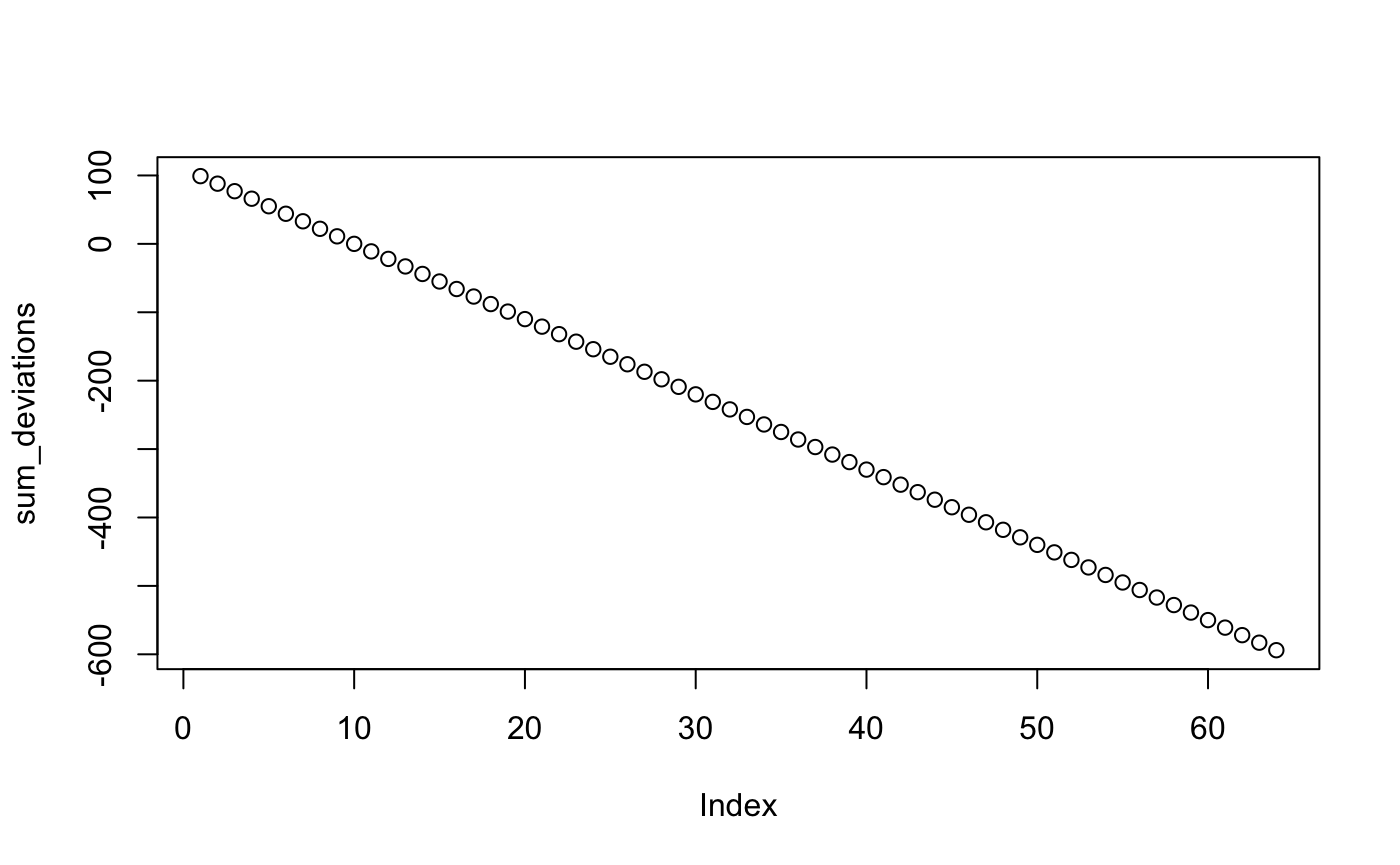
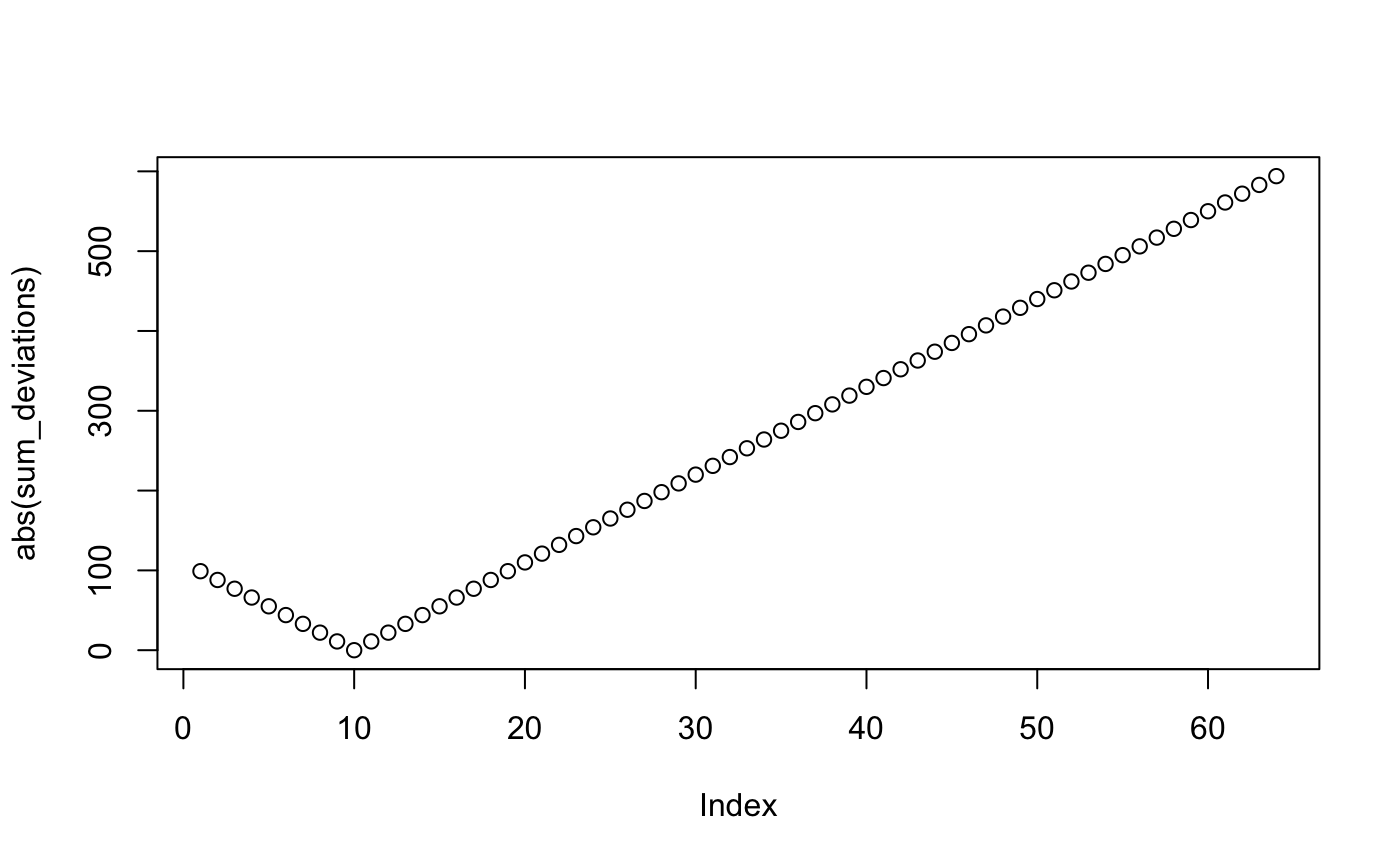
add to docs

diff --git a/docs/articles/Lab2_Descriptives.html b/docs/articles/Lab2_Descriptives.html
@@ -193,10 +193,9 @@
 <span class="fu"><a href="https://ggplot2.tidyverse.org/reference/ggplot.html">ggplot</a></span>(<span class="no">means_df</span>, <span class="fu"><a href="https://ggplot2.tidyverse.org/reference/aes.html">aes</a></span>(<span class="kw">x</span><span class="kw">=</span><span class="no">feed</span>, <span class="kw">y</span><span class="kw">=</span><span class="no">means</span>)) +
   <span class="fu"><a href="https://ggplot2.tidyverse.org/reference/geom_bar.html">geom_bar</a></span>(<span class="kw">stat</span><span class="kw">=</span><span class="st">"identity"</span>)</pre></body></html></div>
 <p><img src="Lab2_Descriptives_files/figure-html/unnamed-chunk-3-1.png" width="700"></p>
-</div>
-<div id="base-r-descriptive-statistics-functions" class="section level2">
-<h2 class="hasAnchor">
-<a href="#base-r-descriptive-statistics-functions" class="anchor"></a>Base R descriptive statistics functions</h2>
+<div id="base-r-descriptive-statistics-functions" class="section level3">
+<h3 class="hasAnchor">
+<a href="#base-r-descriptive-statistics-functions" class="anchor"></a>Base R descriptive statistics functions</h3>
 <p>Base R comes with functions for many common descriptive statistics. In general, these functions take a vector of number as an input, and return the statistic as an output. Here are some examples computing statistics on the sequence of integers from 1 to 10.</p>
 <div class="sourceCode" id="cb4"><html><body><pre class="r"><span class="no">a</span> <span class="kw">&lt;-</span> <span class="fl">1</span>:<span class="fl">10</span>
 
@@ -209,44 +208,43 @@
 <span class="fu"><a href="https://rdrr.io/r/stats/cor.html">var</a></span>(<span class="no">a</span>) <span class="co"># sample variance (n-1)</span>
 <span class="co">#&gt; [1] 9.166667</span></pre></body></html></div>
 <p>At the same time, base R does not have existing functions for every descriptive statistic, or custom descriptive statistics that you might want to make yourself. For example, there is no mode function. You would have to find another package with a mode function, or write your own.</p>
-<p>In the following sections we will learn how to write our own functions for descriptive statistics, and we will use R to demonstrate concepts about these statistics. Descriptive statistics are typically applied to data, however to keep things simple we will be applying them to short sets of numbers that we define. This will help us check our work.</p>
-<p>As we will see in later labs, it is possible to generate or sample numbers from distributions in R. So, along with real data, we will often use simulated data. Here is a quick example of generating numbers from a normal distribution, plotting them, and calculating some descriptives.</p>
-<div class="sourceCode" id="cb5"><html><body><pre class="r"><span class="co"># sample 50 numbers from normal distribution</span>
-<span class="no">sample_numbers</span> <span class="kw">&lt;-</span> <span class="fu"><a href="https://rdrr.io/r/stats/Normal.html">rnorm</a></span>(<span class="kw">n</span><span class="kw">=</span> <span class="fl">50</span>, <span class="kw">mean</span> <span class="kw">=</span> <span class="fl">0</span>, <span class="kw">sd</span> <span class="kw">=</span> <span class="fl">1</span>)
-
-<span class="co">#show a histogram of the sample</span>
-<span class="fu"><a href="https://rdrr.io/r/graphics/hist.html">hist</a></span>(<span class="no">sample_numbers</span>)</pre></body></html></div>
-<p><img src="Lab2_Descriptives_files/figure-html/unnamed-chunk-5-1.png" width="700"></p>
-<div class="sourceCode" id="cb6"><html><body><pre class="r">
-<span class="fu"><a href="https://rdrr.io/r/base/mean.html">mean</a></span>(<span class="no">sample_numbers</span>)
-<span class="co">#&gt; [1] 0.04071421</span>
-<span class="fu"><a href="https://rdrr.io/r/stats/sd.html">sd</a></span>(<span class="no">sample_numbers</span>)
-<span class="co">#&gt; [1] 0.8596191</span></pre></body></html></div>
 </div>
-<div id="central-tendency" class="section level2">
+</div>
+<div id="concepts-i-demonstrating-properties-of-the-arithmetic-mean-in-r" class="section level2">
 <h2 class="hasAnchor">
-<a href="#central-tendency" class="anchor"></a>Central Tendency</h2>
+<a href="#concepts-i-demonstrating-properties-of-the-arithmetic-mean-in-r" class="anchor"></a>Concepts I: Demonstrating properties of the arithmetic mean in R</h2>
+<p>In this section we will:</p>
+<ol style="list-style-type: decimal">
+<li>use the built in <code><a href="https://rdrr.io/r/base/mean.html">mean()</a></code> function</li>
+<li>write our own mean function</li>
+<li>conduct a simulation in R to demonstrate that the mean is the only number that causes the sum of the deviations from the mean to equal zero.</li>
+</ol>
+<p>We can use the <code><a href="https://rdrr.io/r/base/mean.html">mean()</a></code> function to calculate arithmetic means in R. These examples show calculating means of different vectors inputted to the mean function.</p>
+<div class="sourceCode" id="cb5"><html><body><pre class="r"><span class="fu"><a href="https://rdrr.io/r/base/mean.html">mean</a></span>(<span class="fl">1</span>:<span class="fl">10</span>)
+<span class="co">#&gt; [1] 5.5</span>
+<span class="fu"><a href="https://rdrr.io/r/base/mean.html">mean</a></span>(<span class="fu"><a href="https://rdrr.io/r/base/c.html">c</a></span>(<span class="fl">1</span>,<span class="fl">2</span>,<span class="fl">3</span>))
+<span class="co">#&gt; [1] 2</span>
+<span class="fu"><a href="https://rdrr.io/r/base/mean.html">mean</a></span>(<span class="no">chickwts</span>$<span class="no">weight</span>)
+<span class="co">#&gt; [1] 261.3099</span></pre></body></html></div>
+<p>In order to calculate means we need a set of numbers to start with. In a research context, the sets of numbers will be data points from a research project. And, we will learn throughout this course how to input real data, manipulate it, and calculate descriptive and inferential statistics. However, in this section, we will use R to create sets of numbers, rather than input data.</p>
 <div id="arithmetic-mean" class="section level3">
 <h3 class="hasAnchor">
 <a href="#arithmetic-mean" class="anchor"></a>Arithmetic Mean</h3>
-<p>We have seen already that the arithmetic mean can be computed using the <code><a href="https://rdrr.io/r/base/mean.html">mean()</a></code> mean function. The mean function takes a vector of number as an input and returns the arithmetic mean. Here are some examples:</p>
-<div class="sourceCode" id="cb7"><html><body><pre class="r"><span class="fu"><a href="https://rdrr.io/r/base/mean.html">mean</a></span>(<span class="fl">1</span>:<span class="fl">10</span>)
-<span class="co">#&gt; [1] 5.5</span>
-
-<span class="no">a</span> <span class="kw">&lt;-</span> <span class="fu"><a href="https://rdrr.io/r/base/c.html">c</a></span>(<span class="fl">1</span>,<span class="fl">2</span>,<span class="fl">3</span>,<span class="fl">4</span>,<span class="fl">5</span>,<span class="fl">6</span>,<span class="fl">7</span>,<span class="fl">8</span>,<span class="fl">9</span>,<span class="fl">10</span>)
-<span class="fu"><a href="https://rdrr.io/r/base/mean.html">mean</a></span>(<span class="no">a</span>)
-<span class="co">#&gt; [1] 5.5</span></pre></body></html></div>
 <p>The mean is the sum of the numbers, divided by the number of numbers:</p>
 <p><span class="math inline">\(\bar{X} = \frac{\sum_i^n{Xi}}{n}\)</span></p>
 <p>If we wanted to break these steps down in R to compute the mean for the sequence 1 to 10, it could look like this:</p>
-<div class="sourceCode" id="cb8"><html><body><pre class="r"><span class="no">a</span> <span class="kw">&lt;-</span> <span class="fl">1</span>:<span class="fl">10</span> <span class="co"># create a vector</span>
+<div class="sourceCode" id="cb6"><html><body><pre class="r"><span class="no">a</span> <span class="kw">&lt;-</span> <span class="fl">1</span>:<span class="fl">10</span> <span class="co"># create a vector</span>
 <span class="no">sum_a</span> <span class="kw">&lt;-</span> <span class="fu"><a href="https://rdrr.io/r/base/sum.html">sum</a></span>(<span class="no">a</span>) <span class="co"># store the sum</span>
 <span class="no">length_a</span> <span class="kw">&lt;-</span> <span class="fu"><a href="https://rdrr.io/r/base/length.html">length</a></span>(<span class="no">a</span>) <span class="co"># store the length (n)</span>
 <span class="no">mean_a</span> <span class="kw">&lt;-</span> <span class="fu"><a href="https://rdrr.io/r/base/sum.html">sum</a></span>(<span class="no">a</span>)/<span class="fu"><a href="https://rdrr.io/r/base/length.html">length</a></span>(<span class="no">a</span>) <span class="co"># store the sum/n</span>
 <span class="no">mean_a</span> <span class="co"># report the mean</span>
 <span class="co">#&gt; [1] 5.5</span></pre></body></html></div>
+</div>
+<div id="writing-a-custom-mean-function" class="section level3">
+<h3 class="hasAnchor">
+<a href="#writing-a-custom-mean-function" class="anchor"></a>Writing a custom mean function</h3>
 <p>How would you write your own custom version of the mean function? Here are a few examples:</p>
-<div class="sourceCode" id="cb9"><html><body><pre class="r"><span class="co"># A long-form mean function that shows each step</span>
+<div class="sourceCode" id="cb7"><html><body><pre class="r"><span class="co"># A long-form mean function that shows each step</span>
 <span class="no">my_mean</span> <span class="kw">&lt;-</span> <span class="kw">function</span>(<span class="no">x</span>) {
   <span class="no">sum_x</span>    <span class="kw">&lt;-</span> <span class="fu"><a href="https://rdrr.io/r/base/sum.html">sum</a></span>(<span class="no">x</span>) <span class="co"># store the sum</span>
   <span class="no">length_x</span> <span class="kw">&lt;-</span> <span class="fu"><a href="https://rdrr.io/r/base/length.html">length</a></span>(<span class="no">x</span>) <span class="co"># store the length (n)</span>
@@ -257,7 +255,7 @@
 <span class="fu">my_mean</span>(<span class="fl">1</span>:<span class="fl">10</span>)
 <span class="co">#&gt; [1] 5.5</span></pre></body></html></div>
 <p>The above example is “long” because it writes out each step of computing the mean on each line. Sometimes it is desirable to make the steps in your function clear and easy to follow. It is also possible and sometimes desirable to rewrite the function so it accomplishes the same steps in a short number of lines of code. Below I show an example of systematically rewriting the above function to make it take fewer lines of code. We will see that the <code><a href="https://rdrr.io/r/base/function.html">return()</a></code> statement is not necessary, and that the <code>{}</code> are not necessary if the function can be written on one line.</p>
-<div class="sourceCode" id="cb10"><html><body><pre class="r"><span class="co"># return() is not necessary if the function ends with a</span>
+<div class="sourceCode" id="cb8"><html><body><pre class="r"><span class="co"># return() is not necessary if the function ends with a</span>
 <span class="co"># variable name being printed</span>
 <span class="no">my_mean</span> <span class="kw">&lt;-</span> <span class="kw">function</span>(<span class="no">x</span>) {
   <span class="no">sum_x</span>    <span class="kw">&lt;-</span> <span class="fu"><a href="https://rdrr.io/r/base/sum.html">sum</a></span>(<span class="no">x</span>) <span class="co"># store the sum</span>
@@ -293,26 +291,26 @@
 <span class="fu">my_mean</span>(<span class="fl">1</span>:<span class="fl">10</span>)
 <span class="co">#&gt; [1] 5.5</span></pre></body></html></div>
 </div>
-</div>
-<div id="problem-1-demonstrate-that-the-mean-is-the-point-from-which-the-sum-of-the-deviations-is-0-" class="section level2">
-<h2 class="hasAnchor">
-<a href="#problem-1-demonstrate-that-the-mean-is-the-point-from-which-the-sum-of-the-deviations-is-0-" class="anchor"></a>Problem 1: Demonstrate that the mean is the point from which the sum of the deviations is 0.</h2>
+<div id="demonstrate-that-the-mean-is-the-point-from-which-the-sum-of-the-deviations-is-0-" class="section level3">
+<h3 class="hasAnchor">
+<a href="#demonstrate-that-the-mean-is-the-point-from-which-the-sum-of-the-deviations-is-0-" class="anchor"></a>Demonstrate that the mean is the point from which the sum of the deviations is 0.</h3>
 <p>We learned that the mean of a set of numbers is the point where the sum of the deviations equal 0. Our problem is to use R to demonstrate this property of the mean. How can we do that?</p>
 <p>Let’s break down the steps. We need some numbers:</p>
-<div class="sourceCode" id="cb11"><html><body><pre class="r"><span class="no">scores</span> <span class="kw">&lt;-</span> <span class="fu"><a href="https://rdrr.io/r/base/c.html">c</a></span>(<span class="fl">1</span>,<span class="fl">64</span>,<span class="fl">5</span>,<span class="fl">4</span>,<span class="fl">3</span>,<span class="fl">4</span>,<span class="fl">5</span>,<span class="fl">6</span>,<span class="fl">7</span>,<span class="fl">8</span>,<span class="fl">3</span>)</pre></body></html></div>
+<div class="sourceCode" id="cb9"><html><body><pre class="r"><span class="no">scores</span> <span class="kw">&lt;-</span> <span class="fu"><a href="https://rdrr.io/r/base/c.html">c</a></span>(<span class="fl">1</span>,<span class="fl">64</span>,<span class="fl">5</span>,<span class="fl">4</span>,<span class="fl">3</span>,<span class="fl">4</span>,<span class="fl">5</span>,<span class="fl">6</span>,<span class="fl">7</span>,<span class="fl">8</span>,<span class="fl">3</span>)</pre></body></html></div>
 <p>We need to be able to compute the sum of the deviations. That is we wish to compute the differences between one number (which is going to be the mean), and all of the numbers in our set. These are the deviations. Then we want to add them all up to arrive at the sum of the deviations.</p>
 <p>How can we find the deviations between the numbers in <code>scores</code>, and some number of our choice? Let’s pick the number 5. It turns out that we can simply subtract 5 from <code>scores</code>. And we will produce a vector of differences or deviations</p>
-<div class="sourceCode" id="cb12"><html><body><pre class="r"><span class="no">scores</span>-<span class="fl">5</span>
+<div class="sourceCode" id="cb10"><html><body><pre class="r"><span class="no">scores</span>-<span class="fl">5</span>
 <span class="co">#&gt;  [1] -4 59  0 -1 -2 -1  0  1  2  3 -2</span></pre></body></html></div>
 <p>Then, we can find the sum:</p>
-<div class="sourceCode" id="cb13"><html><body><pre class="r"><span class="fu"><a href="https://rdrr.io/r/base/sum.html">sum</a></span>(<span class="no">scores</span>-<span class="fl">5</span>)
+<div class="sourceCode" id="cb11"><html><body><pre class="r"><span class="fu"><a href="https://rdrr.io/r/base/sum.html">sum</a></span>(<span class="no">scores</span>-<span class="fl">5</span>)
 <span class="co">#&gt; [1] 55</span></pre></body></html></div>
 <p>Notice that the sum of the deviations (between the numbers in <code>scores</code> and 5) does not equal 0. So, Clearly, the mean of our numbers must not be 5. The mean is the value that would cause the deviations to sum to 0.</p>
-<div id="approximating-the-mean" class="section level3">
+</div>
+<div id="simulations-to-approximate-the-mean" class="section level3">
 <h3 class="hasAnchor">
-<a href="#approximating-the-mean" class="anchor"></a>Approximating the mean</h3>
+<a href="#simulations-to-approximate-the-mean" class="anchor"></a>Simulations to approximate the mean</h3>
 <p>We could very quickly show that the mean of <code>scores</code> causes the deviations to sum to 0. For example, the mean is 10, and the sum of the deviations between the scores and the mean is 0.</p>
-<div class="sourceCode" id="cb14"><html><body><pre class="r"><span class="no">scores</span> <span class="co"># the scores</span>
+<div class="sourceCode" id="cb12"><html><body><pre class="r"><span class="no">scores</span> <span class="co"># the scores</span>
 <span class="co">#&gt;  [1]  1 64  5  4  3  4  5  6  7  8  3</span>
 
 <span class="fu"><a href="https://rdrr.io/r/base/mean.html">mean</a></span>(<span class="no">scores</span>) <span class="co"># the mean</span>
@@ -323,9 +321,9 @@
 
 <span class="fu"><a href="https://rdrr.io/r/base/sum.html">sum</a></span>(<span class="no">scores</span>-<span class="fu"><a href="https://rdrr.io/r/base/mean.html">mean</a></span>(<span class="no">scores</span>)) <span class="co"># the sum</span>
 <span class="co">#&gt; [1] 0</span></pre></body></html></div>
-<p>But, let’s use R to approximate the value of the mean by trying out different values, rather than by computing the mean first. For example, we previously tried a 5, and the sum of the deviations was not 0. What if we tried a bunch of numbers, say from the lowest number (1) to the highest number (64)? Each time we could compute the deviations, and the sum of the deviations. We could record the outcome for each test. Then we could look out our results and see which of the numbers comes closest to creating a sum of deviations that equals 0. This will require 64 individual tests, and that is too much do to by hand. Fortunately, we can use R to accomplish these goals very quickly.</p>
+<p>Instead, let’s use R to approximate the value of the mean by trying out different values, rather than by computing the mean first. For example, we previously tried a 5, and the sum of the deviations was not 0. What if we tried a bunch of numbers, say from the lowest number (1) to the highest number (64)? Each time we could compute the deviations, and the sum of the deviations. We could record the outcome for each test. Then we could look at our results and see which of the numbers comes closest to creating a sum of deviations that equals 0. This will require 64 individual tests, and that is too much do to by hand. Fortunately, we can use R to accomplish these goals very quickly.</p>
 <p>Basically, this is this the process of what I want to do…but I don’t want to write 64 lines of code either…</p>
-<div class="sourceCode" id="cb15"><html><body><pre class="r"><span class="fu"><a href="https://rdrr.io/r/base/sum.html">sum</a></span>(<span class="no">scores</span>-<span class="fl">1</span>)
+<div class="sourceCode" id="cb13"><html><body><pre class="r"><span class="fu"><a href="https://rdrr.io/r/base/sum.html">sum</a></span>(<span class="no">scores</span>-<span class="fl">1</span>)
 <span class="co">#&gt; [1] 99</span>
 <span class="fu"><a href="https://rdrr.io/r/base/sum.html">sum</a></span>(<span class="no">scores</span>-<span class="fl">2</span>)
 <span class="co">#&gt; [1] 88</span>
@@ -339,7 +337,7 @@
 <span class="co">#&gt; [1] 44</span>
 <span class="co">## and so on to 64</span></pre></body></html></div>
 <p>If we want to repeatedly apply a similar computation in R, remember we can use a <code>for</code> loop. We will test all of the integers between the smallest value and largest value. So, we first create a sequence of those numbers called <code>numbers_to_test</code>. And, then we use a loop to compute the sum of deviations between the scores and each of the test numbers.</p>
-<div class="sourceCode" id="cb16"><html><body><pre class="r"><span class="fu"><a href="https://rdrr.io/r/base/Extremes.html">min</a></span>(<span class="no">scores</span>)
+<div class="sourceCode" id="cb14"><html><body><pre class="r"><span class="fu"><a href="https://rdrr.io/r/base/Extremes.html">min</a></span>(<span class="no">scores</span>)
 <span class="co">#&gt; [1] 1</span>
 <span class="fu"><a href="https://rdrr.io/r/base/Extremes.html">max</a></span>(<span class="no">scores</span>)
 <span class="co">#&gt; [1] 64</span>
@@ -356,24 +354,25 @@
 <span class="co">#&gt; [31] -231 -242 -253 -264 -275 -286 -297 -308 -319 -330 -341 -352 -363 -374 -385</span>
 <span class="co">#&gt; [46] -396 -407 -418 -429 -440 -451 -462 -473 -484 -495 -506 -517 -528 -539 -550</span>
 <span class="co">#&gt; [61] -561 -572 -583 -594</span></pre></body></html></div>
-<p>We just computed 64 sums of deviations, and the results are displayed above. Our question was to approximate the mean, by finding a value that produces a sum of deviations closest to 0. Let’s discuss three ways to get at the answer. First, we could look at the above sums and see that the 10th value is a 0, this means that the number 10 produced the sum of deviations closest to 0 (equaling 0 because 10 is the mean).</p>
+<p>We just computed our first simulation and produced these 64 sums of deviations, displayed above. Our question was to approximate the mean, by finding a value that produces a sum of deviations closest to 0. A final step is to evaluate the results of our simulation to answer the question.</p>
+<p>Let’s discuss three ways to get at the answer. First, we could look at the above sums and see that the 10th value is a 0, this means that the number 10 produced the sum of deviations closest to 0 (equaling 0 because 10 is the mean).</p>
 </div>
 <div id="plotting-the-results" class="section level3">
 <h3 class="hasAnchor">
 <a href="#plotting-the-results" class="anchor"></a>Plotting the results</h3>
 <p>Second, we could visualize the sum of the deviations. We could quickly do that with the <code><a href="https://rdrr.io/r/base/plot.html">plot()</a></code> function.</p>
-<div class="sourceCode" id="cb17"><html><body><pre class="r"><span class="fu"><a href="https://rdrr.io/r/base/plot.html">plot</a></span>(<span class="no">sum_deviations</span>)</pre></body></html></div>
-<p><img src="Lab2_Descriptives_files/figure-html/unnamed-chunk-16-1.png" width="700"></p>
+<div class="sourceCode" id="cb15"><html><body><pre class="r"><span class="fu"><a href="https://rdrr.io/r/base/plot.html">plot</a></span>(<span class="no">sum_deviations</span>)</pre></body></html></div>
+<p><img src="Lab2_Descriptives_files/figure-html/unnamed-chunk-15-1.png" width="700"></p>
 <p>We are looking for the value on the x-axis that causes the sum of the deviations on the y-axis to be closest to 0. One way to help locate this value could be to look at the absolute values. Absolute values remove the negative (-) sign from numbers, leaving everything positive. You can convert to absolute values in R using <code><a href="https://rdrr.io/r/base/MathFun.html">abs()</a></code></p>
 <p>Now, it is easy to see that 10 produces the sum of deviations closest to 0 (in this case it produces a value of 0, because 10 is also the mean).</p>
-<div class="sourceCode" id="cb18"><html><body><pre class="r"><span class="fu"><a href="https://rdrr.io/r/base/plot.html">plot</a></span>(<span class="fu"><a href="https://rdrr.io/r/base/MathFun.html">abs</a></span>(<span class="no">sum_deviations</span>))</pre></body></html></div>
-<p><img src="Lab2_Descriptives_files/figure-html/unnamed-chunk-17-1.png" width="700"></p>
+<div class="sourceCode" id="cb16"><html><body><pre class="r"><span class="fu"><a href="https://rdrr.io/r/base/plot.html">plot</a></span>(<span class="fu"><a href="https://rdrr.io/r/base/MathFun.html">abs</a></span>(<span class="no">sum_deviations</span>))</pre></body></html></div>
+<p><img src="Lab2_Descriptives_files/figure-html/unnamed-chunk-16-1.png" width="700"></p>
 </div>
 <div id="locating-the-result-using-which" class="section level3">
 <h3 class="hasAnchor">
 <a href="#locating-the-result-using-which" class="anchor"></a>Locating the result using which()</h3>
 <p>Finally, we could use other R functions to help us compute the answer. For example, we could use the <code><a href="https://rdrr.io/r/base/which.html">which()</a></code> function. This function can be used to determine the indices or position of “logically” obtained values in a vector. Is a long way of saying we want R to tell us which position in the vector contains the 0</p>
-<div class="sourceCode" id="cb19"><html><body><pre class="r"><span class="co">#find the positions in vector that equal 0</span>
+<div class="sourceCode" id="cb17"><html><body><pre class="r"><span class="co">#find the positions in vector that equal 0</span>
 <span class="fu"><a href="https://rdrr.io/r/base/which.html">which</a></span>(<span class="no">sum_deviations</span> <span class="kw">==</span> <span class="fl">0</span>)
 <span class="co">#&gt; [1] 10</span>
 
@@ -390,7 +389,7 @@
 <a href="#minor-details" class="anchor"></a>Minor details</h3>
 <p>The above approach worked pretty well. By a simulation process, we found that 10 produced a sum of deviations that equaled 0. None of the other numbers produced a sum of deviations that equaled 0. However, our example code won’t work very well for other sets of numbers.</p>
 <p>For example, if we used the set of number from 1 to 20, where the mean is 10.5, we find that none of the sums of deviations ever get to 0 (that’s because we are only testing integers between 1 and 20). And, our <code><a href="https://rdrr.io/r/base/which.html">which()</a></code> function will never find a number that is exactly equal to 0.</p>
-<div class="sourceCode" id="cb20"><html><body><pre class="r">
+<div class="sourceCode" id="cb18"><html><body><pre class="r">
 <span class="no">scores</span> <span class="kw">&lt;-</span> <span class="fl">1</span>:<span class="fl">20</span>
 <span class="no">numbers_to_test</span> <span class="kw">&lt;-</span> <span class="fu"><a href="https://rdrr.io/r/base/Extremes.html">min</a></span>(<span class="no">scores</span>):<span class="fu"><a href="https://rdrr.io/r/base/Extremes.html">max</a></span>(<span class="no">scores</span>)
 
@@ -405,9 +404,45 @@
 <span class="fu"><a href="https://rdrr.io/r/base/which.html">which</a></span>(<span class="no">sum_deviations</span> <span class="kw">==</span> <span class="fl">0</span>)
 <span class="co">#&gt; integer(0)</span></pre></body></html></div>
 <p>Here, we need to modify the comparison in the <code><a href="https://rdrr.io/r/base/which.html">which()</a></code> function to return “approximate” numbers that give the sums of deviations closest to zero.</p>
-<div class="sourceCode" id="cb21"><html><body><pre class="r"><span class="fu"><a href="https://rdrr.io/r/base/which.html">which</a></span>(<span class="fu"><a href="https://rdrr.io/r/base/MathFun.html">abs</a></span>(<span class="no">sum_deviations</span>) <span class="kw">==</span> <span class="fu"><a href="https://rdrr.io/r/base/Extremes.html">min</a></span>(<span class="fu"><a href="https://rdrr.io/r/base/MathFun.html">abs</a></span>(<span class="no">sum_deviations</span>)))
+<div class="sourceCode" id="cb19"><html><body><pre class="r"><span class="fu"><a href="https://rdrr.io/r/base/which.html">which</a></span>(<span class="fu"><a href="https://rdrr.io/r/base/MathFun.html">abs</a></span>(<span class="no">sum_deviations</span>) <span class="kw">==</span> <span class="fu"><a href="https://rdrr.io/r/base/Extremes.html">min</a></span>(<span class="fu"><a href="https://rdrr.io/r/base/MathFun.html">abs</a></span>(<span class="no">sum_deviations</span>)))
 <span class="co">#&gt; [1] 10 11</span></pre></body></html></div>
 </div>
+<div id="advanced-example-writing-a-function-for-our-demonstration" class="section level3">
+<h3 class="hasAnchor">
+<a href="#advanced-example-writing-a-function-for-our-demonstration" class="anchor"></a>Advanced Example: Writing a function for our demonstration</h3>
+<p>In this example I show how the above simulation could be written as a function. This function could then be used to approximate a mean for any set of scores, and test values.</p>
+<div class="sourceCode" id="cb20"><html><body><pre class="r"><span class="no">approximate_mean</span> <span class="kw">&lt;-</span> <span class="kw">function</span>(<span class="no">scores</span>,<span class="no">test_sequence</span>){
+  <span class="no">sum_deviations</span> <span class="kw">&lt;-</span> <span class="fu"><a href="https://rdrr.io/r/base/c.html">c</a></span>()
+  <span class="kw">for</span>(<span class="no">i</span> <span class="kw">in</span> <span class="fl">1</span>:<span class="fu"><a href="https://rdrr.io/r/base/length.html">length</a></span>(<span class="no">test_sequence</span>)){
+    <span class="no">sum_deviations</span>[<span class="no">i</span>] <span class="kw">&lt;-</span> <span class="fu"><a href="https://rdrr.io/r/base/sum.html">sum</a></span>(<span class="no">scores</span>-<span class="no">test_sequence</span>[<span class="no">i</span>])
+  }
+  <span class="no">locate_index</span> <span class="kw">&lt;-</span> <span class="fu"><a href="https://rdrr.io/r/base/which.html">which</a></span>(<span class="fu"><a href="https://rdrr.io/r/base/MathFun.html">abs</a></span>(<span class="no">sum_deviations</span>) <span class="kw">==</span> <span class="fu"><a href="https://rdrr.io/r/base/Extremes.html">min</a></span>(<span class="fu"><a href="https://rdrr.io/r/base/MathFun.html">abs</a></span>(<span class="no">sum_deviations</span>)))
+  <span class="no">test_sequence</span>[<span class="no">locate_index</span>]
+}
+
+<span class="no">a</span> <span class="kw">&lt;-</span> <span class="fu"><a href="https://rdrr.io/r/base/c.html">c</a></span>(<span class="fl">1</span>,<span class="fl">4</span>,<span class="fl">3</span>,<span class="fl">2</span>,<span class="fl">4</span>,<span class="fl">3</span>,<span class="fl">5</span>,<span class="fl">4</span>,<span class="fl">6</span>,<span class="fl">5</span>,<span class="fl">7</span>,<span class="fl">6</span>,<span class="fl">8</span>,<span class="fl">7</span>,<span class="fl">9</span>,<span class="fl">8</span>,<span class="fl">7</span>,<span class="fl">6</span>,<span class="fl">7</span>,<span class="fl">6</span>,<span class="fl">5</span>)
+<span class="no">b</span> <span class="kw">&lt;-</span> <span class="fu"><a href="https://rdrr.io/r/base/seq.html">seq</a></span>(<span class="fl">0</span>,<span class="fl">10</span>,<span class="fl">.1</span>)
+<span class="fu">approximate_mean</span>(<span class="no">a</span>,<span class="no">b</span>)
+<span class="co">#&gt; [1] 5.4</span>
+
+<span class="co">#actual mean</span>
+<span class="fu"><a href="https://rdrr.io/r/base/mean.html">mean</a></span>(<span class="no">a</span>)
+<span class="co">#&gt; [1] 5.380952</span></pre></body></html></div>
+</div>
+</div>
+<div id="practical-i-inputting-real-data-and-calculating-descriptive-statistics-with-tidyverse" class="section level2">
+<h2 class="hasAnchor">
+<a href="#practical-i-inputting-real-data-and-calculating-descriptive-statistics-with-tidyverse" class="anchor"></a>Practical I: Inputting real data and calculating descriptive statistics with tidyverse</h2>
+<p>These practical examples will gloss over many important details that we will cover throughout the semester, but the example code is enough to get you started. We will be following a <code>tidyverse</code> approach, which minimally involves 1. Importing data into a data.frame or similar (tibble, data.table) 2. “Wrangling” the data into a desired format for analysis 3. Applying calculations to the data</p>
+<div id="importing-data" class="section level3">
+<h3 class="hasAnchor">
+<a href="#importing-data" class="anchor"></a>Importing Data</h3>
+<p>First, we need to have some “real data” to import. <a href="https://crumplab.github.io/psyc7709Lab/downloads/open_data.zip">Download this zip file</a>. It contains a folder <code>open_data</code>, which several data files taken from published psychology papers (whose authors made their data publicly available).</p>
+</div>
+</div>
+<div id="practial-ii-plotting-the-means-with-ggplot2" class="section level2">
+<h2 class="hasAnchor">
+<a href="#practial-ii-plotting-the-means-with-ggplot2" class="anchor"></a>Practial II: Plotting the means with ggplot2</h2>
 </div>
 <div id="lab-2-generalization-assignment" class="section level2">
 <h2 class="hasAnchor">

diff --git a/docs/news/index.html b/docs/news/index.html
@@ -123,7 +123,7 @@
   </ul>
 </li>
 <li>
-  <a></a>
+  <a href="../articles/course_docs/resources.html">R resources</a>
 </li>
       </ul>
       <ul class="nav navbar-nav navbar-right">

diff --git a/docs/reference/index.html b/docs/reference/index.html
@@ -123,7 +123,7 @@
   </ul>
 </li>
 <li>
-  <a></a>
+  <a href="../articles/course_docs/resources.html">R resources</a>
 </li>
       </ul>
       <ul class="nav navbar-nav navbar-right">

diff --git a/docs/404.html b/docs/404.html
@@ -123,7 +123,7 @@
   </ul>
 </li>
 <li>
-  <a></a>
+  <a href="articles/course_docs/resources.html">R resources</a>
 </li>
       </ul>
       <ul class="nav navbar-nav navbar-right">

diff --git a/docs/articles/course_docs/Syllabus.html b/docs/articles/course_docs/Syllabus.html
@@ -78,7 +78,7 @@
   </ul>
 </li>
 <li>
-  <a></a>
+  <a href="../../articles/course_docs/resources.html">R resources</a>
 </li>
       </ul>
 <ul class="nav navbar-nav navbar-right">

diff --git a/docs/articles/course_docs/resources.html b/docs/articles/course_docs/resources.html
@@ -78,7 +78,7 @@
   </ul>
 </li>
 <li>
-  <a></a>
+  <a href="../../articles/course_docs/resources.html">R resources</a>
 </li>
       </ul>
 <ul class="nav navbar-nav navbar-right">

diff --git a/docs/articles/Getting_Started.html b/docs/articles/Getting_Started.html
@@ -78,7 +78,7 @@
   </ul>
 </li>
 <li>
-  <a></a>
+  <a href="../articles/course_docs/resources.html">R resources</a>
 </li>
       </ul>
 <ul class="nav navbar-nav navbar-right">

diff --git a/docs/articles/Lab1_Basics.html b/docs/articles/Lab1_Basics.html
@@ -78,7 +78,7 @@
   </ul>
 </li>
 <li>
-  <a></a>
+  <a href="../articles/course_docs/resources.html">R resources</a>
 </li>
       </ul>
 <ul class="nav navbar-nav navbar-right">
